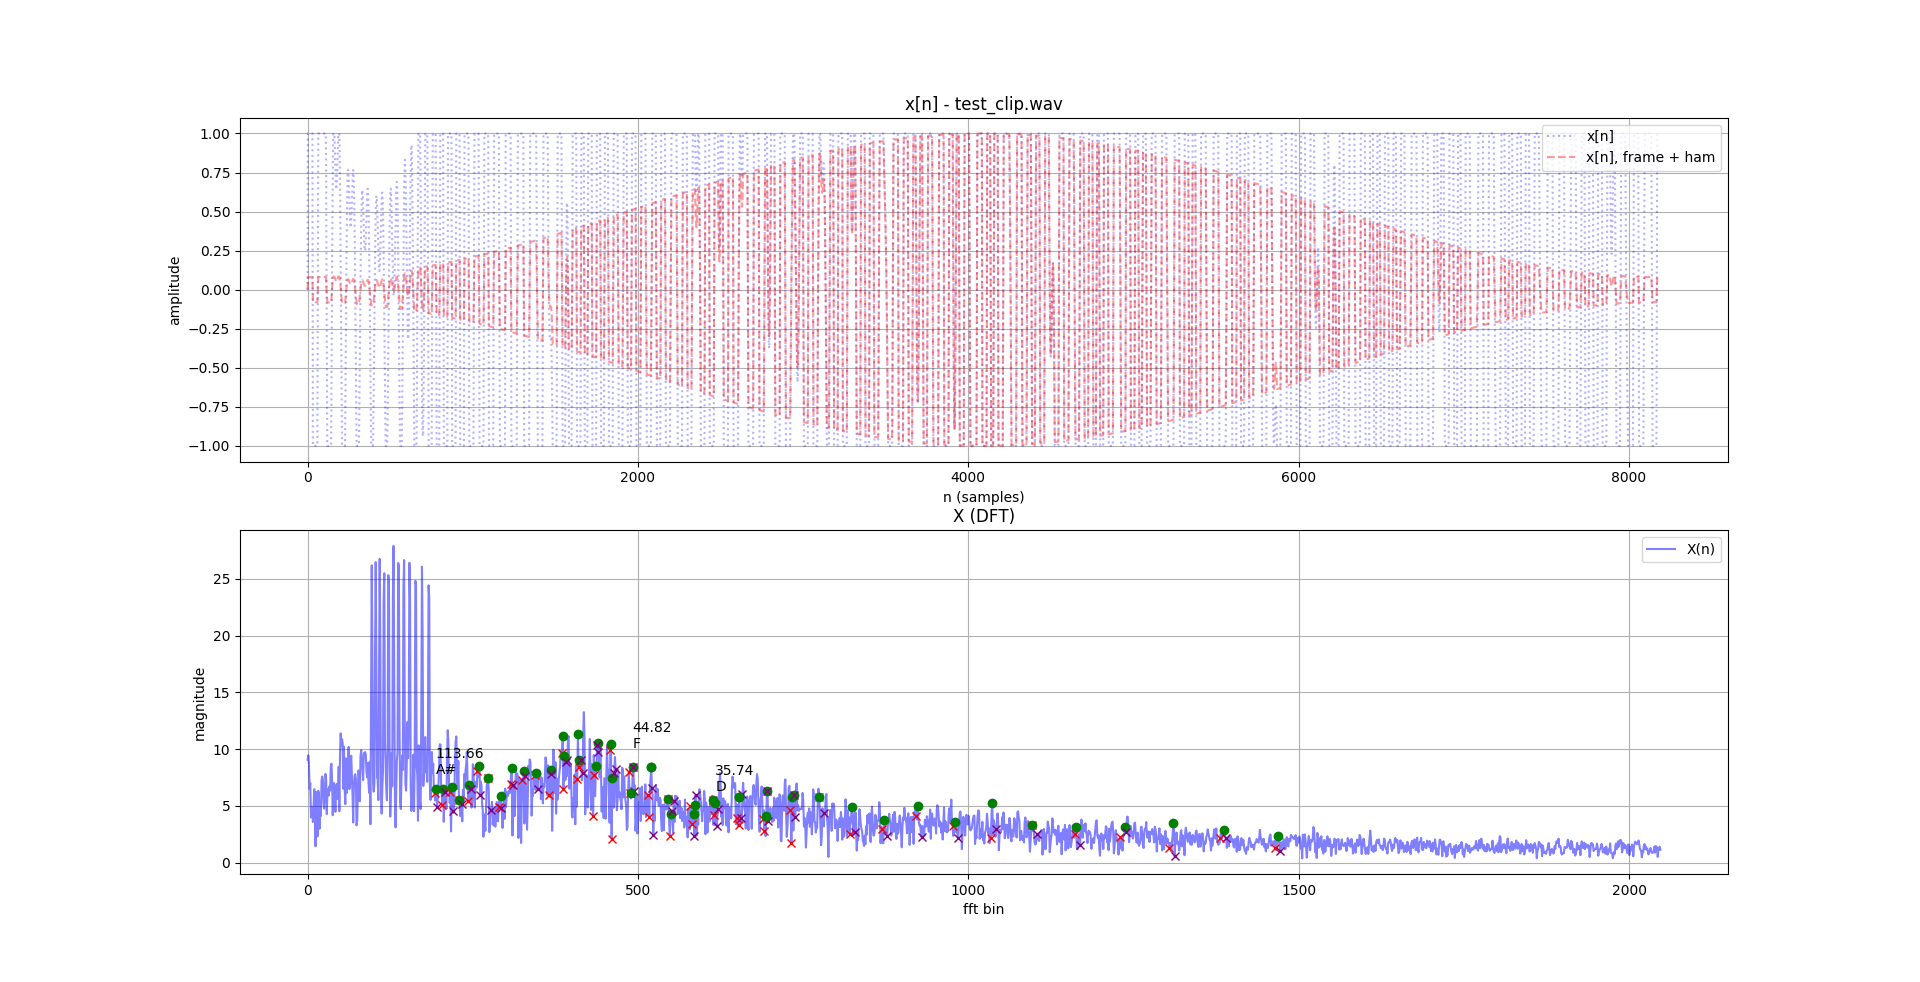
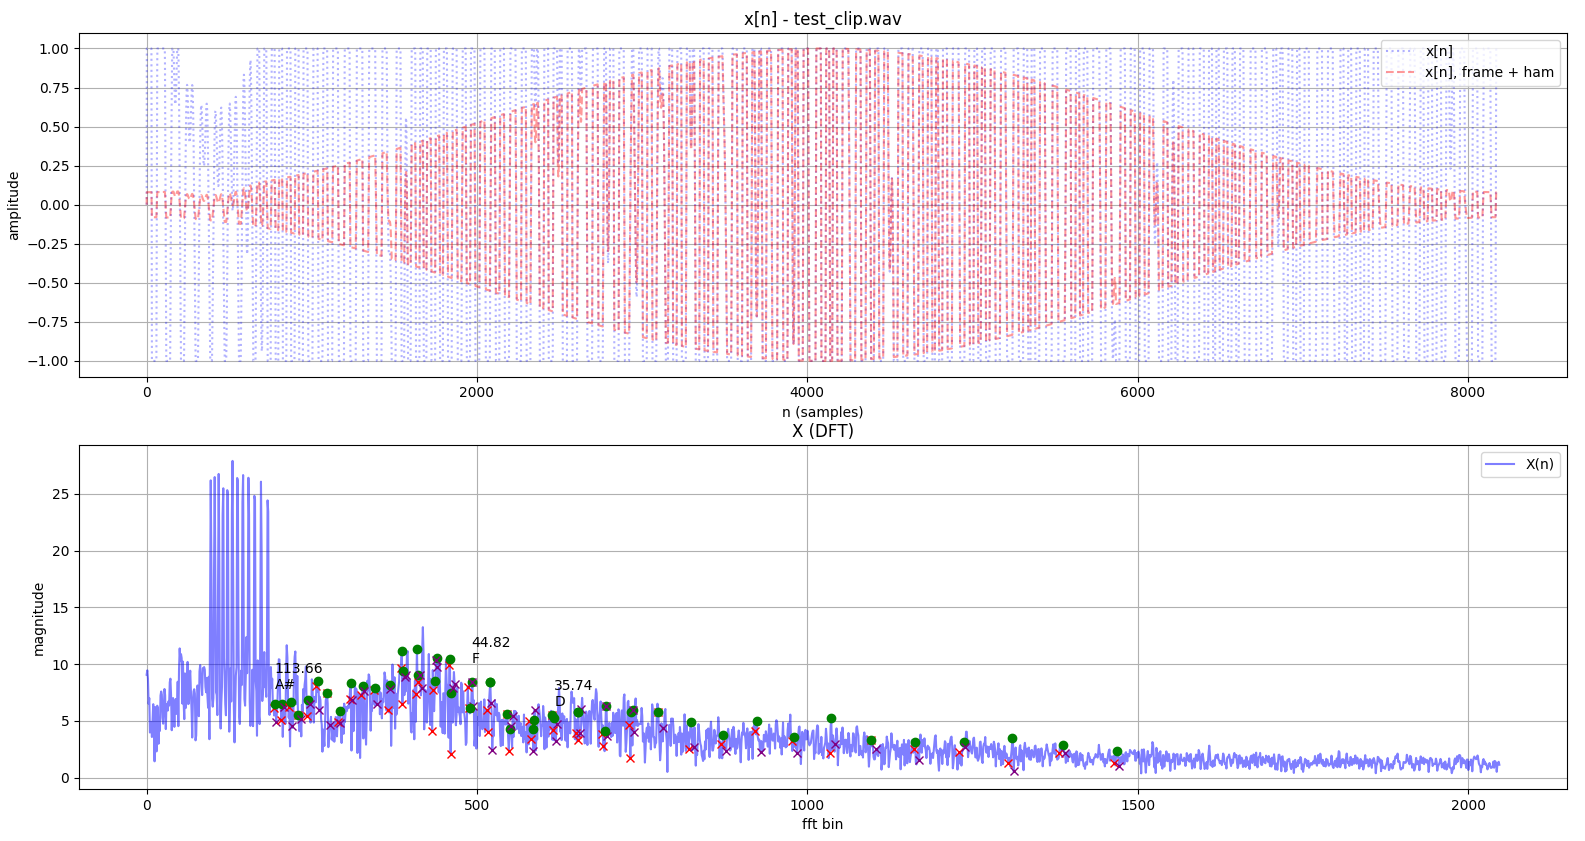
Visually caught the problem (auditory filterbank) with iterative-f0

diff --git a/chord_detection/iterative_f0.py b/chord_detection/iterative_f0.py
@@ -40,12 +40,16 @@ class MultipitchIterativeF0(Multipitch):
         ]
         self.peak_thresh = peak_thresh
         self.peak_min_dist = peak_min_dist
+        self.rand_channels = {}
+        for i in range(5):
+            chosen_idx = random.randrange(0, len(self.channels))
+            self.rand_channels[chosen_idx] = {'fc': self.channels[chosen_idx], 'x_haf': None}
 
     def display_name(self):
         return "Iterative F0 (Klapuri, Anssi)"
 
     def compute_pitches(self):
-        self.ytc = [[None] * len(self.channels)] * self.num_frames
+        self.yc = []
 
         for i, fc in enumerate(self.channels):
             yc = _auditory_filterbank(self.x, self.fs, fc)
@@ -57,56 +61,44 @@ class MultipitchIterativeF0(Multipitch):
                 yc + lowpass_filter(yc, self.fs, fc)
             ) / 2.0  # sum with low-pass filtered version of self at center-channel frequency
 
-            for j, yc_ in enumerate(
-                numpy.split(yc, self.num_frames)
-            ):  # split yc into frames
-                if len(yc_) < self.frame_size:
-                    yc_ = numpy.concatenate(
-                        (yc_, numpy.zeros(self.frame_size - len(yc_)))
-                    )
+            yc *= scipy.signal.hamming(self.x.shape[0])
+            if i in self.rand_channels:
+                self.rand_channels[i]['x_haf'] = yc.copy()
+            self.yc.append(yc)
 
-                yc_ *= scipy.signal.hamming(self.frame_size)
-                yc_ = numpy.concatenate((yc_, numpy.zeros(self.frame_size)))
-
-                self.ytc[j][i] = yc_
-
-        self.Ut = []
-        for frame, yc in enumerate(self.ytc):
-            Ut_ = sacf(yc, k=self.power)
-            self.Ut.append(Ut_)
+        self.Ut = sacf(self.yc, k=self.power)
 
         chromagram = Chromagram()
 
-        for frame, U in enumerate(self.Ut):
-            peak_indices = peakutils.indexes(
-                U, thres=self.peak_thresh, min_dist=self.peak_min_dist
-            )
-            print(peak_indices)
+        peak_indices = peakutils.indexes(
+            self.Ut, thres=self.peak_thresh, min_dist=self.peak_min_dist
+        )
 
-            peak_indices_interp = peakutils.interpolate(
-                numpy.arange(U.shape[0]), U, ind=peak_indices
-            )
-            for i, tau in enumerate(peak_indices_interp):
-                pitch = self.fs / tau
-                note = freq_to_note(pitch)
-                chromagram[note] += U[peak_indices[i]]
+        peak_indices_interp = peakutils.interpolate(
+            numpy.arange(self.Ut.shape[0]), self.Ut, ind=peak_indices
+        )
+        for i, tau in enumerate(peak_indices_interp):
+            pitch = self.fs / tau
+            note = freq_to_note(pitch)
+            chromagram[note] += self.Ut[peak_indices[i]]
 
-        print(chromagram)
         chromagram.normalize()
         return chromagram
 
     def display_plots(self):
-        # for frame, yc in enumerate(iterativef0.ytc):
-        #    Ut = self.Ut[frame]
-        plot_len = min(self.Ut[0].shape[0], self.x.shape[0])
+        plot_len = min(self.Ut.shape[0], self.x.shape[0])
         samples = numpy.arange(plot_len)
 
         fig1, (ax1, ax2, ax3) = plt.subplots(3, 1)
+        i = 0
 
         ax1.set_title("x[n] - {0}".format(self.clip_name))
         ax1.set_xlabel("n (samples)")
         ax1.set_ylabel("amplitude")
-        ax1.plot(samples, self.x[:plot_len], "b", alpha=0.8, label="x[n]")
+        ax1.plot(samples, self.x[:plot_len], "C{0}".format(i), alpha=0.75, linestyle='--', label="x[n]")
+        for x, dct in self.rand_channels.items():
+            ax1.plot(samples, dct['x_haf'][:plot_len], "C{0}".format(i), alpha=0.75, linestyle=':', label="x[n] auditory filterbank, {0}Hz".format(dct['fc']))
+            i += 1
         ax1.grid()
         ax1.legend(loc="upper right")
 
@@ -114,16 +106,17 @@ class MultipitchIterativeF0(Multipitch):
         ax2.set_xlabel("n (samples)")
         ax2.set_ylabel("amplitude")
 
-        for i in range(5):
-            x = random.randrange(0, len(self.channels))
+        for x in self.rand_channels:
+            xaxis = int(self.x.shape[0])
             ax2.plot(
-                samples,
-                self.ytc[0][x][:plot_len],
+                numpy.arange(xaxis),
+                self.yc[x][:xaxis],
                 color="C{0}".format(i),
                 linestyle="--",
                 alpha=0.5,
                 label="{0}Hz".format(round(self.channels[x], 2)),
             )
+        i += 1
 
         ax2.grid()
         ax2.legend(loc="upper right")
@@ -132,7 +125,7 @@ class MultipitchIterativeF0(Multipitch):
         ax3.set_xlabel("n (samples)")
         ax3.set_ylabel("|amplitude|^p")
         ax3.plot(
-            samples, self.Ut[0][:plot_len], "g", linestyle="--", alpha=0.5, label="Ut"
+            samples, self.Ut[:plot_len], "g", linestyle="--", alpha=0.5, label="Ut"
         )
 
         ax3.grid()
